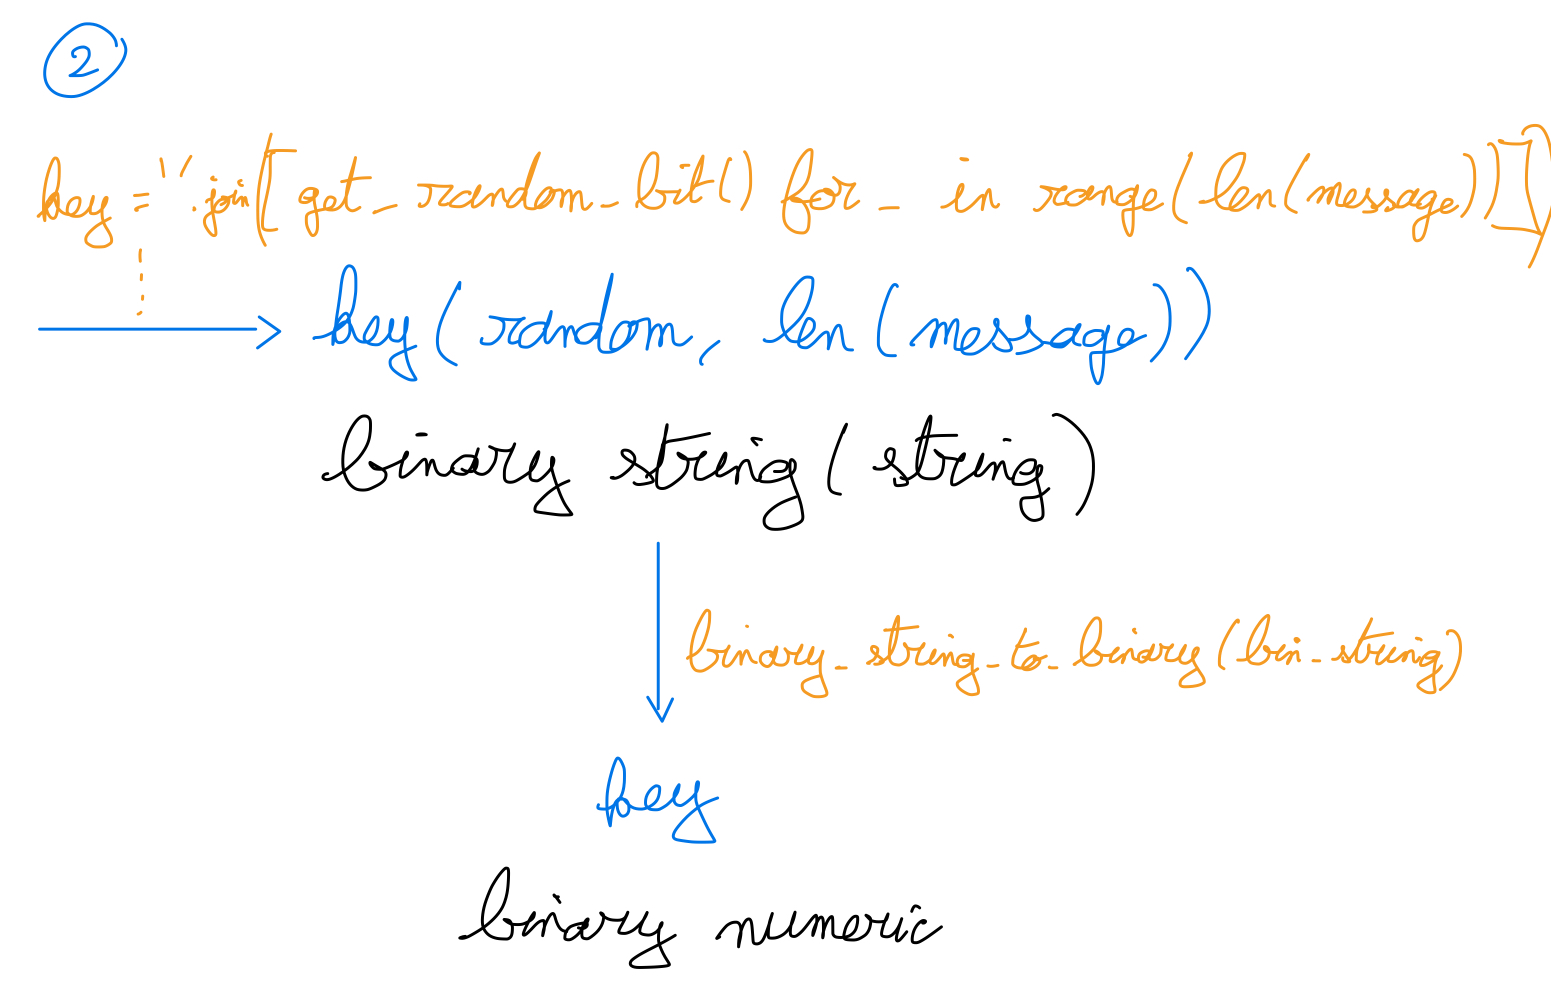
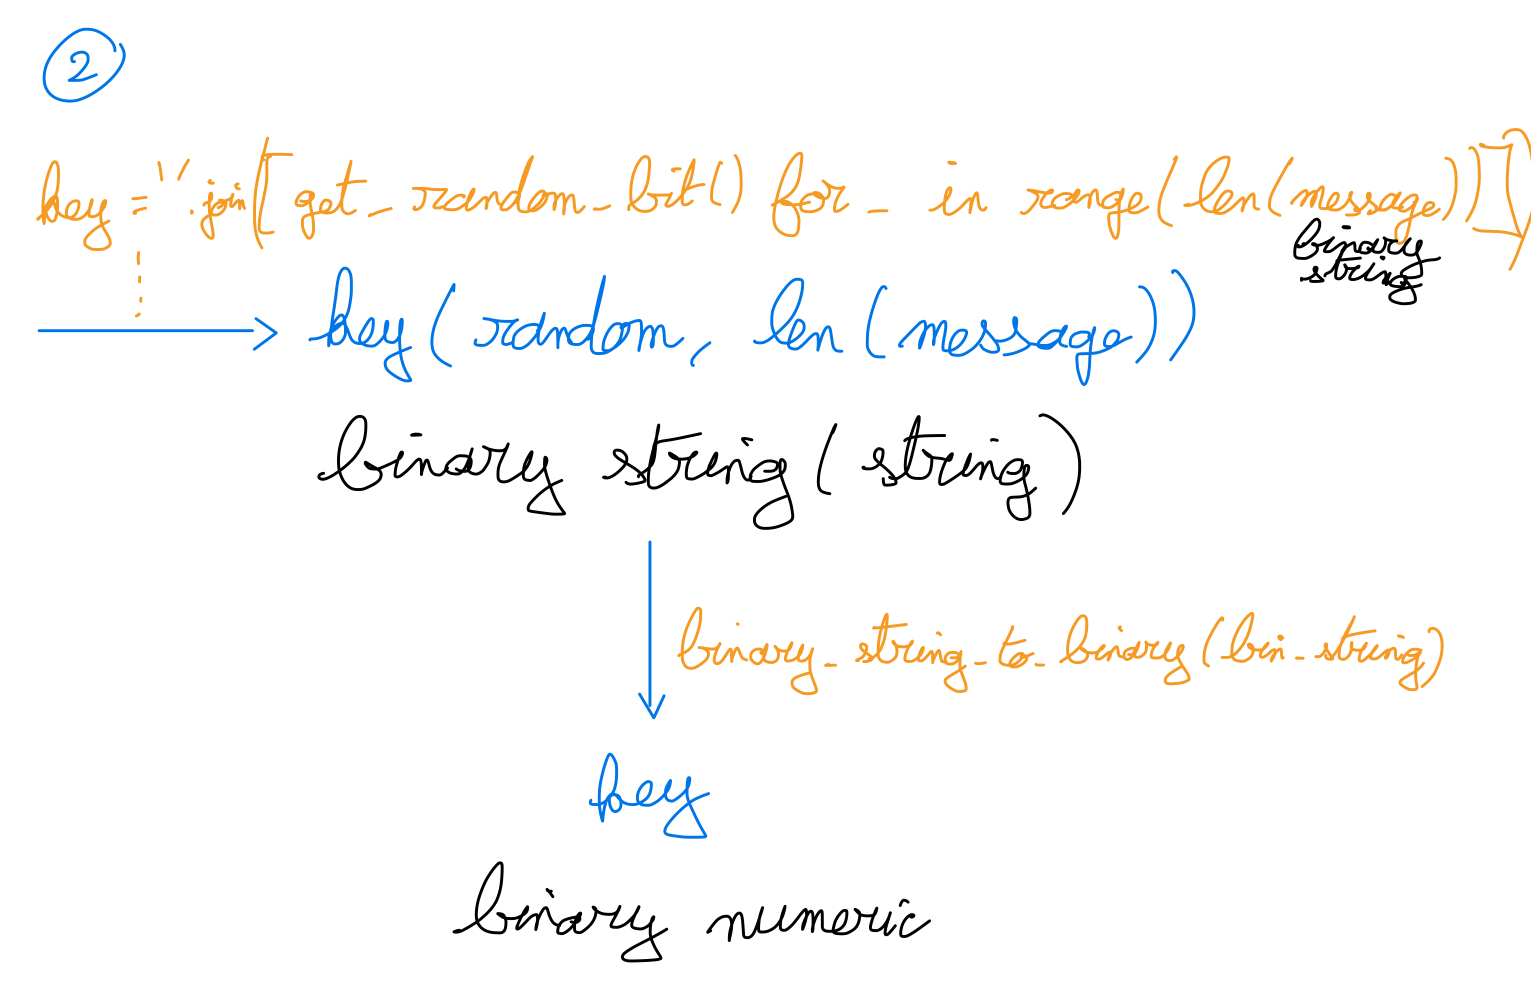
Fix OPT Encoding

diff --git a/cipher.py b/cipher.py
@@ -135,9 +135,11 @@ class Cipher:
 
     def encode_otp(self, message):
         """Similar to a vernan cipher, but we will generate a random key string and return it"""
+        message_binary_numeric = string_to_binary(message)
+        message_binary_string = binary_to_binary_string(message_binary_numeric)
         key_binary_numeric = binary_string_to_binary(
-            ''.join([get_random_bit() for _ in range(len(message))]))
-        cipher_text = string_to_binary(message) ^ key_binary_numeric
+            ''.join([get_random_bit() for _ in range(len(message_binary_string))]))
+        cipher_text = message_binary_numeric ^ key_binary_numeric
         return cipher_text, key_binary_numeric
 
     def decode_otp(self, cipher_text, key):
